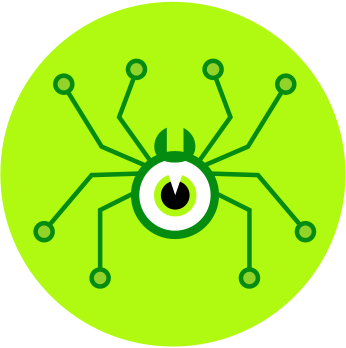
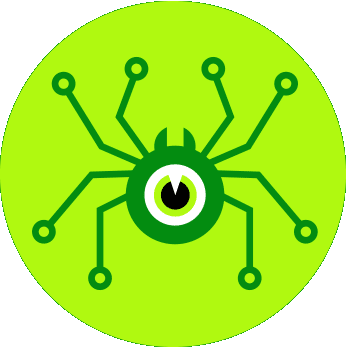
Various fixes and updates
- Renames campaign and updates URLs
- Adds minimized version of banner
- Removes Source Sans Pro font
- Updates icon to thicken lines
- Readds open button
- Removes some unnecessary js

diff --git a/banner_content/js/main.js b/banner_content/js/main.js
@@ -42,76 +42,6 @@ function countUp(a,b,c,d,e){for(var f=0,g=["webkit","moz","ms"],h=0;h<g.length&&
         }
     }
 $(document).ready( function () {
-    if(getQueryVariable('callOnly') === 'true') {
-      $('.phone-only-container').show();
-    } else {
-      $('.both-container').show();
-    };
-    var firstTime = getQueryVariable('firstTime') === 'true' ? true : false;
-
-    if(firstTime) {
-           $('#first-slide').show();
-     setTimeout(function() {
-           $('#first-slide').fadeOut(250, function() {
-               $('#second-slide').fadeIn(250);
-               $('.footer').fadeIn(250);
-
-           })
-       }, 1500);
-   } else {
-    $('#second-slide').show();
-               $('.footer').show();
-   }
-    $('input, textarea').placeholder();
-    $('.userPhone').focus(function(){
-
-        /* Modified phone number formatting script */
-        /* via BootstrapFormHelpers - https://github.com/vlamanna/BootstrapFormHelpers - Apache License, Version 2.0 */
-        +function(e){"use strict";function n(e,t){var n,r,i,s;n="";t=String(t).replace(/\D/g,"");for(r=0,i=0;r<e.length;r=r+1){if(/\d/g.test(e.charAt(r))){if(e.charAt(r)===t.charAt(i)){n+=t.charAt(i);i=i+1}else{n+=e.charAt(r)}}else if(e.charAt(r)!=="d"){if(t.charAt(i)!==""||e.charAt(r)==="+"){n+=e.charAt(r)}}else{if(t.charAt(i)===""){n+=""}else{n+=t.charAt(i);i=i+1}}}s=e.charAt(n.length);if(s!=="d"){n+=s}return n}function r(e){var t=0,n;if(document.selection){e.focus();n=document.selection.createRange();n.moveStart("character",-e.value.length);t=n.text.length}else if(e.selectionStart||e.selectionStart===0){t=e.selectionStart}return t}function i(e,t){var n;if(document.selection){e.focus();n=document.selection.createRange();n.moveStart("character",-e.value.length);n.moveStart("character",t);n.moveEnd("character",0);n.select()}else if(e.selectionStart||e.selectionStart===0){e.selectionStart=t;e.selectionEnd=t;e.focus()}}var t=function(t,n){this.options=e.extend({},e.fn.bfhphone.defaults,n);this.$element=e(t);if(this.$element.is('input[type="text"]')||this.$element.is('input[type="tel"]')){this.addFormatter()}if(this.$element.is("span")){this.displayFormatter()}};t.prototype={constructor:t,addFormatter:function(){var n;if(this.options.country!==""){n=e(document).find("#"+this.options.country);if(n.length!==0){this.options.format=BFHPhoneFormatList[n.val()];n.on("change",{phone:this},this.changeCountry)}else{this.options.format=BFHPhoneFormatList[this.options.country]}}this.$element.on("keyup.bfhphone.data-api",t.prototype.change);this.loadFormatter()},loadFormatter:function(){var e;e=n(this.options.format,this.$element.val());this.$element.val(e)},displayFormatter:function(){var e;if(this.options.country!==""){this.options.format=BFHPhoneFormatList[this.options.country]}e=n(this.options.format,this.options.number);this.$element.html(e)},changeCountry:function(t){var n,r;n=e(this);r=t.data.phone;r.$element.val(String(r.$element.val()).replace(/\+\d*/g,""));r.options.format=BFHPhoneFormatList[n.val()];r.loadFormatter()},change:function(t){var s,o,u,a;s=e(this).data("bfhphone");if(s.$element.is(".disabled")||s.$element.attr("disabled")!==undefined){return true}o=r(s.$element[0]);u=false;if(o===s.$element.val().length){u=true}if(t.which===8&&s.options.format.charAt(s.$element.val().length)!=="d"){s.$element.val(String(s.$element.val()).substring(0,s.$element.val().length-1))}a=n(s.options.format,s.$element.val());if(a===s.$element.val()){return true}s.$element.val(a);if(u){o=s.$element.val().length}i(s.$element[0],o);return true}};var s=e.fn.bfhphone;e.fn.bfhphone=function(n){return this.each(function(){var r,i,s;r=e(this);i=r.data("bfhphone");s=typeof n==="object"&&n;if(!i){r.data("bfhphone",i=new t(this,s))}if(typeof n==="string"){i[n].call(r)}})};e.fn.bfhphone.Constructor=t;e.fn.bfhphone.defaults={format:"",number:"",country:""};e.fn.bfhphone.noConflict=function(){e.fn.bfhphone=s;return this};e(document).ready(function(){e('form input[type="text"].bfh-phone, form input[type="tel"].bfh-phone, span.bfh-phone').each(function(){var t;t=e(this);t.bfhphone(t.data())})})}(window.jQuery)
-        });
-
-    $('.userPhone').focusout(function(){
-        if  ($('.userPhone').val() == "+1 ") {
-            $('.userPhone').val("");
-        }
-    });
-
-
-
-    $('.call-form').on('submit', function(ev) {
-        var form = $(ev.currentTarget);
-
-        var phoneNumberEl = $('.userPhone', form);
-        var phoneNumber = phoneNumberEl.val().replace(/[^\d.]/g, '');
-
-        if(!isValidPhoneNumber(phoneNumber)){
-            rumbleEl(phoneNumberEl);
-        } else {
-            if(typeof page !== 'undefined' && page === 'thankyou') {
-              window.location = 'https://d1agz031tafz8n.cloudfront.net/thedaywefightback.js/thedaywefightback/call-tool.html?phoneNumber=' + phoneNumber;
-            } else {
-              window.open('https://d1agz031tafz8n.cloudfront.net/thedaywefightback.js/thedaywefightback/call-tool.html?phoneNumber=' + phoneNumber, "_blank", "width=786,height=920,scrollbars=yes");
-            }
-        }
-        return false;
-    });
-    $('.email-form').on('submit', function(ev) {
-        var form = $(ev.currentTarget);
-
-        var userEmailEl = $('#userEmail', form);
-        var userEmail = userEmailEl.val();
-
-        if(!isValidEmail(userEmail)){
-            rumbleEl(userEmailEl);
-        } else {
-            window.open('https://d1agz031tafz8n.cloudfront.net/thedaywefightback.js/thedaywefightback/email-tool.html?email=' + userEmail, "_blank", "width=786,height=920,scrollbars=yes");
-        }
-        return false;
-    });
-    $('.email-instead').on('click', function(ev) {
-        window.open('https://d1agz031tafz8n.cloudfront.net/thedaywefightback.js/thedaywefightback/email-tool.html?email=', "_blank", "width=786,height=920,scrollbars=yes");
-        return false;
-    });
     // Call and email counters
     if($('#email-count').length > 0) {
         $.ajax('//dznh7un1y2etk.cloudfront.net/count', {
@@ -158,36 +88,9 @@ $(document).ready( function () {
     }, 2000);
 
     setInterval(function() {
-      var $visibleslide = $(".scrolling-banner-text .animated.flipInX")
-
-      $visibleslide.removeClass("flipInX").addClass("flipOutX");
-
-      dividerReset();
-
-      window.setTimeout(function() {
-        $visibleslide.addClass("hidden");
-        $visibleslide.removeClass("flipOutX");
-
-        var factslides = $visibleslide.parent().children();
-        var $nextslide = factslides.eq((factslides.index($visibleslide) + 1) % factslides.length);
-
-        $nextslide.removeClass("hidden").addClass("animated").addClass("flipInX");
-      }, animationdelay)
 
       window.setTimeout(function(){dividerFill();},dividerdelay);
     }, timeperslide);
-
-    function dividerFill() {
-      $('.divider > div').addClass("fill");
-    }
-
-    function dividerReset() {
-      $('.divider > div').removeClass("fill");
-    }
-
-    var greeting = getQueryVariable('greeting');
-
-    $('.greeting').text(greeting);
 
     var src = $('.switch-locale').attr('href')
 

diff --git a/banner_content/banner.html b/banner_content/banner.html
@@ -25,17 +25,14 @@
   <body class="tdwfb-banner">
     <div class="hidden-xs">
       <div id="banner-container">
-      <div id="first-slide"  style="display: none;">
-          <img src="imgs/splash.png" class="img-responsive abs-centered" id="splash" />
-        </div>
-        <div class="second-slide" id="second-slide" style="display: none;">
-          <div class="col-sm-3 leftside">
-              <div class="leftsidecontainer">
-                  <div class="logotext">
-                      <a href="https://fightdystopia.org" target="_parent">
-                          <img src="imgs/fd-icon.png" class="img-responsive" />
-                      </a>
-                  </div>
+      <div class="second-slide" id="second-slide">
+        <div class="col-sm-3 leftside">
+            <div class="leftsidecontainer">
+              <div class="logotext">
+                  <a href="https://NoGlobalWarrants.org" target="_parent">
+                      <img src="imgs/fd-icon.png" class="img-responsive" />
+                  </a>
+              </div>
             </div>
           </div>
           <div class="col-sm-9 rightside top">
@@ -47,19 +44,27 @@
                 <a class="btn btn-lg btn-green" href="#">Take action in the U.S.</a>
                 <a class="btn btn-lg btn-green" href="#">Take action outside the U.S.</a>
               </div>
-              <div id="homepage_link">
-                <a href="https://fightdystopia.org" target="_blank">FightDystopia.org</a>
             </div>
           </div>
+        </div>
+      </div>
+    </div>
+
+    <div class="footer-wrapper">
+      <div id="banner-container" class="footer">
+        <div id="homepage_link">
+          <a href="https://NoGlobalWarrants.org" target="_blank">NoGlobalWarrants.org</a>
         </div>
       </div>
     </div>
   </div>
 
    <div class="mobile-banner visible-xs abs-centered">
-      <a href="https://thedaywefightback.org" target="_blank"><img src="imgs/mobile-banner.png" class="img-responsive abs-centered" /></a>
+      <a href="https://NoGlobalWarrants.org" target="_blank"><img src="imgs/mobile-banner.png" class="img-responsive abs-centered" /></a>
    </div>
 
     <script type="text/javascript" src="js/main.js"></script>
+    <script>document.write('<script src="http://' + (location.host || 'localhost').split(':')[0] + ':35729/livereload.js?snipver=1"></' + 'script>')</script>
+    <!-- TODO: remove livereload -->
   </body>
 </html>

diff --git a/widget.js b/widget.js
@@ -9,13 +9,13 @@
                               
   =============================================================================
 
-  Support the FightDystopia campaign by installing this banner on your site.
+  Support the NoGlobalWarrant campaign by installing this banner on your site.
 
   <sina@eff.org> for support
 
   =============================================================================
 
-  @source: https://github.com/EFForg/fightdystopia-banner
+  @source: https://github.com/EFForg/ngw-banner
 
   @licstart  The following is the entire license notice for the
              JavaScript code in this page.
@@ -65,7 +65,7 @@ var _tdwfb_config = (typeof tdwfb_config  !== 'undefined') ? tdwfb_config  : {};
   widgetConfig.callOnly = widgetConfig.callOnly || false;
   widgetConfig.startAsMinimized = widgetConfig.startAsMinimized || false;
   widgetConfig.disableDate = widgetConfig.disableDate || false;
-  widgetConfig.campaign = widgetConfig.campaign || 'fightdystopia';
+  widgetConfig.campaign = widgetConfig.campaign || 'noglobalwarrants';
   widgetConfig.cookieTimeout = widgetConfig.cookieTimeout || 172800;
   widgetConfig.overrideLocation = widgetConfig.overrideLocation || false;
 
@@ -179,9 +179,9 @@ var _tdwfb_config = (typeof tdwfb_config  !== 'undefined') ? tdwfb_config  : {};
 
   // Define campaigns
   var campaign = {
-    fightdystopia: {
-      cookieName: 'fightdystopia_hasseen',
-      locationCookieName: 'fightdystopia_locationb',
+    noglobalwarrants: {
+      cookieName: 'noglobalwarrants_hasseen',
+      locationCookieName: 'noglobalwarrants_locationb',
       runDate: {
         day: 21,
         month: 6, // Use natural month, e.g. January = 1
@@ -368,7 +368,7 @@ var _tdwfb_config = (typeof tdwfb_config  !== 'undefined') ? tdwfb_config  : {};
               setCookie(activeCampaign.cookieName, '{"minimized": true}',
                 widgetConfig.cookieTimeout);
             } else {
-              iframeContainer.style.height = '350px';
+              iframeContainer.style.height = '300px';
               that.minimized = false;
               footerOverlay.style.display = 'none';
               openButton.style.display = 'none';

diff --git a/banner_content/styles.css b/banner_content/styles.css
@@ -15,7 +15,7 @@
 /* Generated by Font Squirrel (https://www.fontsquirrel.com) on May 31, 2016 */
 
 
-
+/*
 @font-face {
     font-family: 'Source Sans Pro';
     src: url('fonts/sourcesanspro-bold-webfont.woff2') format('woff2'),
@@ -24,7 +24,7 @@
     font-style: normal;
 
 }
-
+*/
 @font-face {
     font-family: 'Montserrat';
     src: url('fonts/montserrat-bold-webfont.woff2') format('woff2'),
@@ -117,7 +117,7 @@ a:hover {
 /* =====================================*/
 
 .rightsidecontainer {
-  margin-top: 50px;
+  margin-top: 40px;
 }
 
 .rightside h2 {
@@ -158,17 +158,13 @@ a:hover {
   color: #B0F910;
   border: 1px solid #B0F910;
   margin-right:10px;
-  -webkit-transition: border-color 0.3s ease-in-out, color 0.3s ease-in-out;
-  transition: border-color 0.3s ease-in-out, color 0.3s ease-in-out;
+  -webkit-transition: background-color 0.3s ease-in-out, border-color 0.3s ease-in-out, color 0.3s ease-in-out;
+  transition: background-color 0.3s ease-in-out, border-color 0.3s ease-in-out, color 0.3s ease-in-out;
 }
 .btn-green:hover {
-  color: #fff;
-  border-color: #fff;
-}
-#homepage_link {
-  float: right;
-  position: absolute;
-  right:0;
+  background-color: #B0F910;
+  color: #08A013;
+  border-color: #B0F910;
 }
 
 @media (min-width: 768px) and (max-width: 979px) {
@@ -182,6 +178,17 @@ a:hover {
 /*
 	Footer
 */
+
+#banner-container.footer {
+  height: 50px;
+}
+
+#homepage_link {
+  margin-top: 15px;
+  color: #B0F910;
+  font-weight: bold;
+  text-align: right;
+}
 
 .footer .leftsidecontainer {
   margin: 0 auto;
@@ -198,7 +205,7 @@ a:hover {
   left:0;
   width: 100%;
   height: 50px;
-  background: #262626;
+  background: #08A013;
 }
 
 .calls-counter, .emails-counter, .footer-left  {
